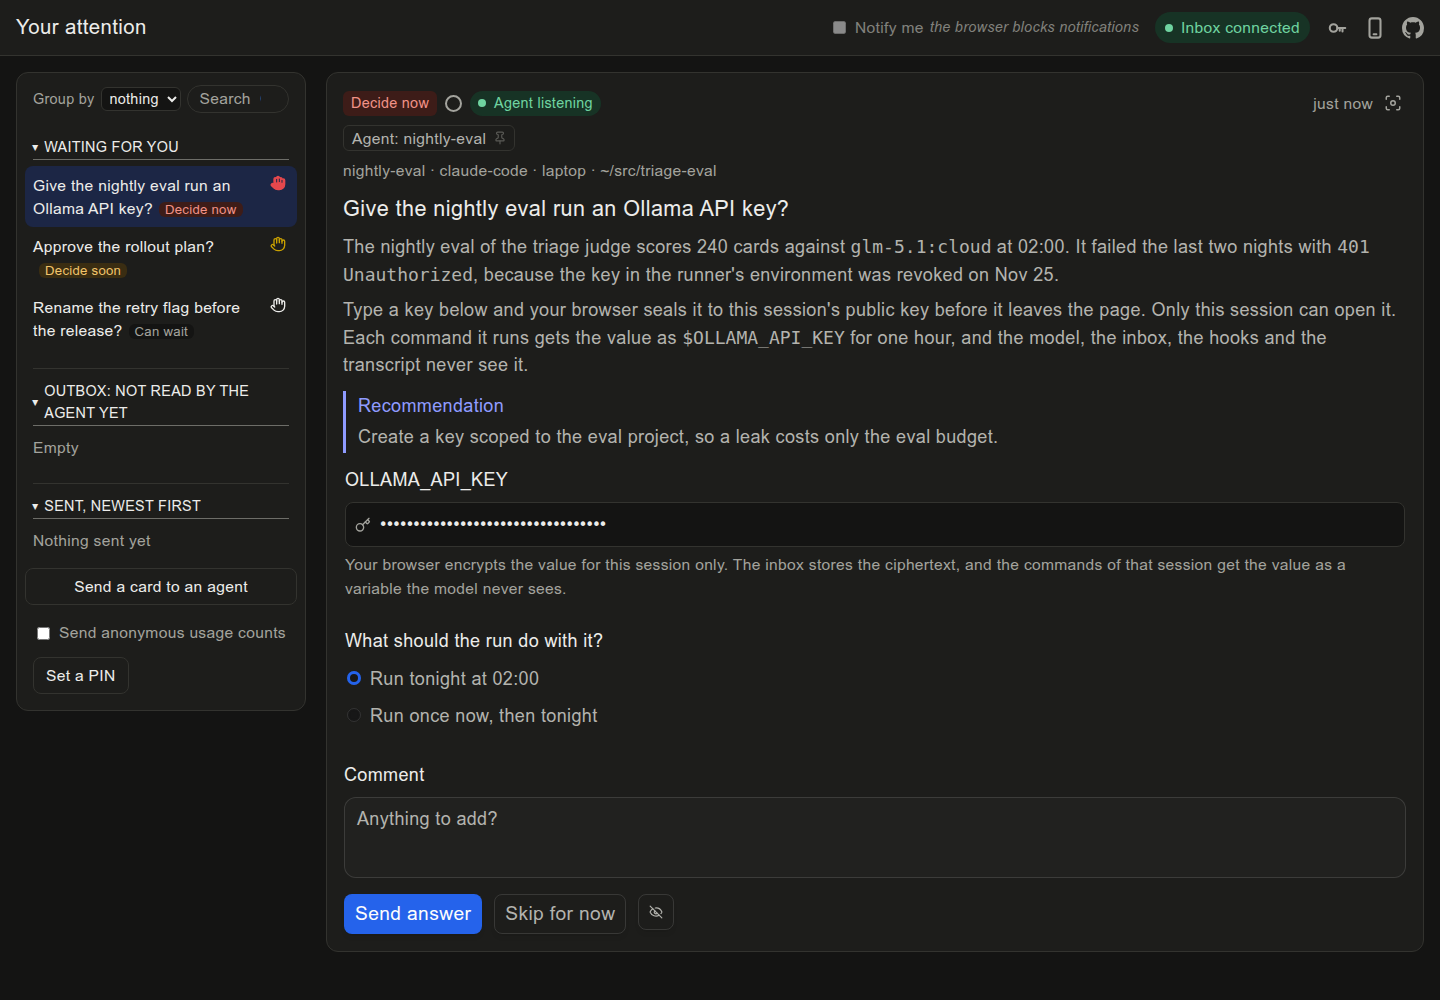
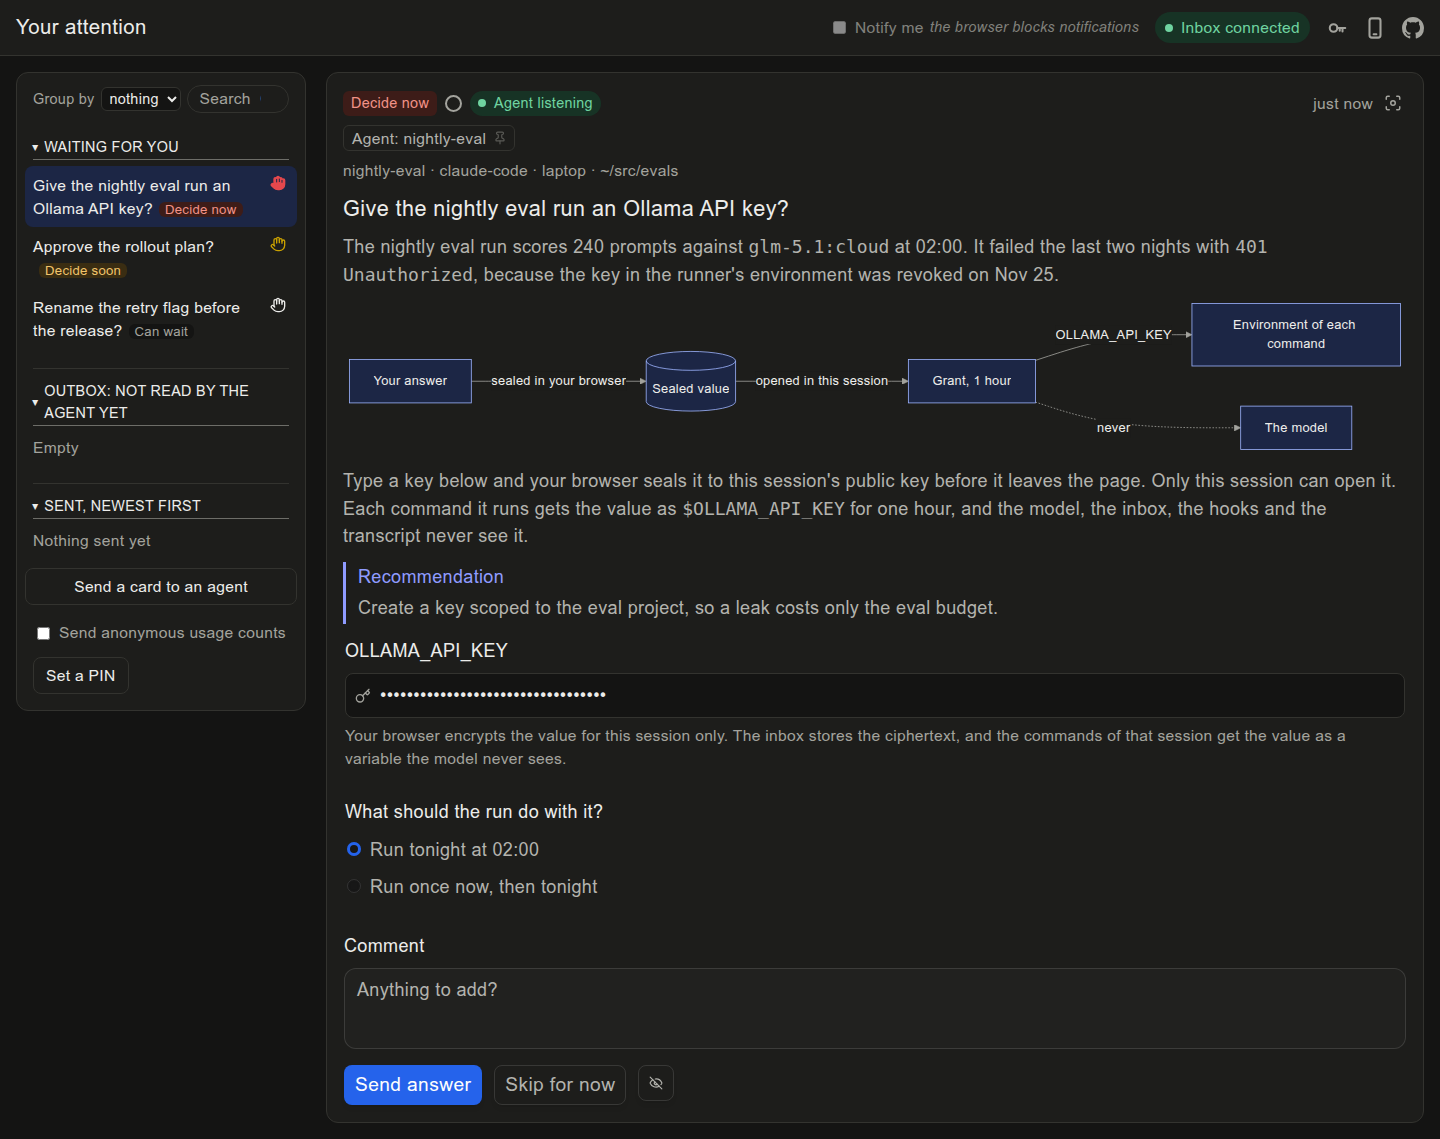
docs: a Mermaid diagram of the grant on the README's sample card
The card's text now draws the path of the value: the answer, sealed in
the browser, opens in the session as a one-hour grant that reaches each
command's environment and never the model. Its story no longer names
the triage judge, and the script takes an optional scheme and path, so a
pull request can show a light copy too.

diff --git a/scripts/readme-screenshot.ts b/scripts/readme-screenshot.ts
@@ -1,6 +1,8 @@
 // Draws docs/screenshot.png, the README's picture of the inbox, from made-up cards on a fresh inbox. The open card asks
 // for a key through the secret widget, so the picture shows a sealed field as the person sees it.
 // Run it after a change to the page: node --disable-warning=ExperimentalWarning scripts/readme-screenshot.ts
+// It draws dark, as the README shows it. `scripts/readme-screenshot.ts light /tmp/light.png` draws another scheme to another
+// file, for a pull request that wants both.
 import fs from 'node:fs';
 import os from 'node:os';
 import path from 'node:path';
@@ -29,9 +31,17 @@ try {
   ].join('\n'));
   const posted = await agent.post({
     id: 'eval-key', agent: 'nightly-eval', title: 'Give the nightly eval run an Ollama API key?', priority: 'now',
-    origin: { name: 'nightly-eval', harness: 'claude-code', host: 'laptop', cwd: '~/src/triage-eval' },
+    origin: { name: 'nightly-eval', harness: 'claude-code', host: 'laptop', cwd: '~/src/evals' },
     text: [
-      'The nightly eval of the triage judge scores 240 cards against `glm-5.1:cloud` at 02:00. It failed the last two nights with `401 Unauthorized`, because the key in the runner\'s environment was revoked on Nov 25.',
+      'The nightly eval run scores 240 prompts against `glm-5.1:cloud` at 02:00. It failed the last two nights with `401 Unauthorized`, because the key in the runner\'s environment was revoked on Nov 25.',
+      '',
+      '```mermaid',
+      'flowchart LR',
+      '  A[Your answer] -- sealed in your browser --> V[(Sealed value)]',
+      '  V -- opened in this session --> G[Grant, 1 hour]',
+      '  G -- OLLAMA_API_KEY --> C[Environment of each command]',
+      '  G -. never .-> M[The model]',
+      '```',
       '',
       'Type a key below and your browser seals it to this session\'s public key before it leaves the page. Only this session can open it. Each command it runs gets the value as `$OLLAMA_API_KEY` for one hour, and the model, the inbox, the hooks and the transcript never see it.',
     ].join('\n'),
@@ -45,7 +55,7 @@ try {
   void agent.stream('nightly-eval', () => {}, stop.signal);
 
   const browser = await chromium.launch();
-  const page = await browser.newPage({ viewport: { width: 1440, height: 1000 }, colorScheme: 'dark' });
+  const page = await browser.newPage({ viewport: { width: 1440, height: 1000 }, colorScheme: process.argv[2] === 'light' ? 'light' : 'dark' });
   await page.goto(`${server.url}/#token=${server.ownerToken}`);
   await page.locator('.bar .pill.on').waitFor();
   await page.locator('.q', { hasText: 'Give the nightly eval run an Ollama API key?' }).click();
@@ -53,9 +63,12 @@ try {
   // recovers it from the picture finds nothing to use.
   await page.getByLabel('OLLAMA_API_KEY', { exact: true }).fill('fixture-not-a-key-0000000000000000');
   await page.getByLabel('Run tonight at 02:00').check();
+  await page.locator('.focus-card svg[id^="diagram-"]').first().waitFor();
   await page.mouse.move(0, 0);
+  // The page grows with the diagram, so the picture takes its full height and cuts no part of the card.
+  await page.setViewportSize({ width: 1440, height: await page.evaluate(() => document.documentElement.scrollHeight) });
   await page.waitForTimeout(500);
-  const out = path.join(import.meta.dirname, '..', 'docs', 'screenshot.png');
+  const out = process.argv[3] ?? path.join(import.meta.dirname, '..', 'docs', 'screenshot.png');
   await page.screenshot({ path: out });
   await browser.close();
   console.log(`wrote ${out}`);
